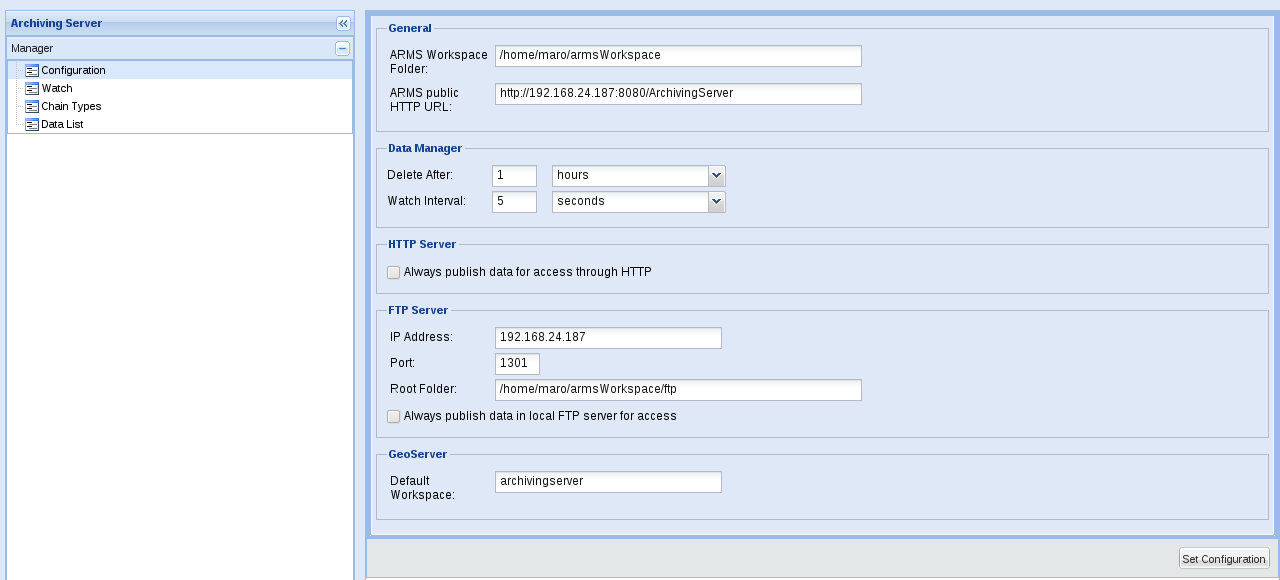
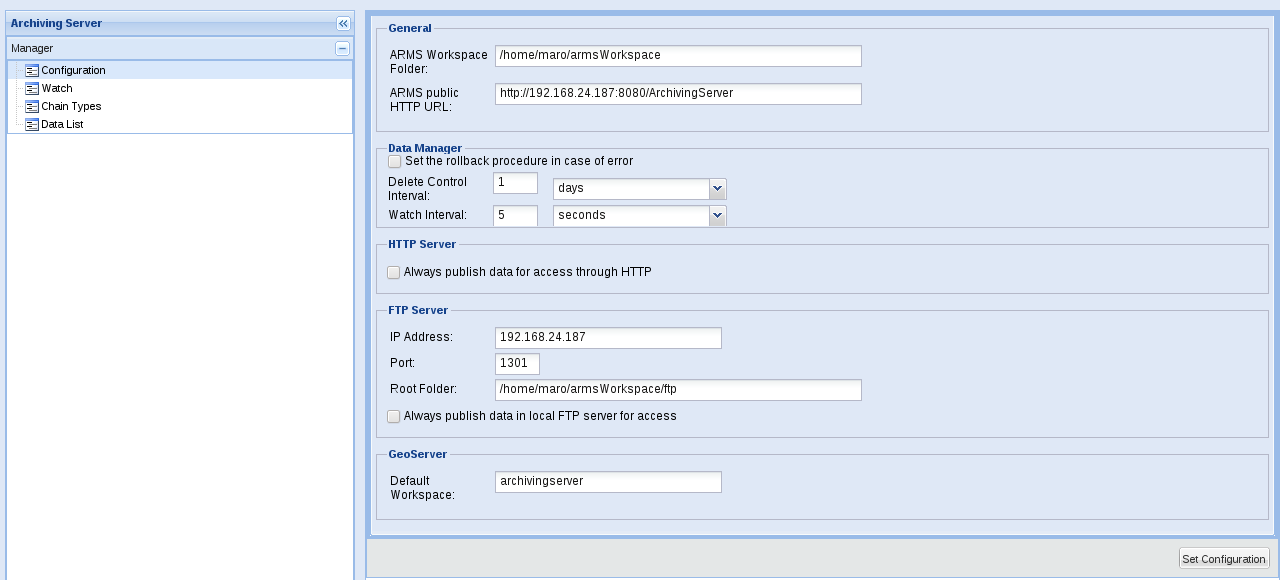
Watch and Configuration documentation updated

Changed region(s): [[0.2812, 0.2483, 0.5938, 0.4034]]

diff --git a/branches/GENESIS/9.0/ArchivingServer/web/Documentation/docsExplorer/html/installation/configure.html b/branches/GENESIS/9.0/ArchivingServer/web/Documentation/docsExplorer/html/installation/configure.html
@@ -42,7 +42,7 @@
           <li><strong>Data Manager </strong>            
             <ul>
               <li><em><strong>Set the rollback procedure in case of error</strong></em>: This parameter activates or deactivates the rollback procedure in case of error.</li>
-              <li><span class="Stile1">Delete After</span>: This parameter sets the  time interval after which data shall be automatically deleted. This is typically user to implement a rolling archive. Set this parameter to 0 to disable the automatic deletion feature. </li>
+              <li><span class="Stile1">Delete Control Interval</span>: This parameter provides a time interval between checks a data that should be automatically deleted but, due to of crash, are remained pending.</li>
               <li><em><strong>Watch Interval</strong></em>: This parameter provides a time interval between directory checks. At every check new file is searched in the directory and automatically deployed into the ARMS, if found.</li>
             </ul>
           </li>
@@ -115,6 +115,9 @@
 	          <p>Then proceed with the definition of the steps that the ARMS have to perform when a new data is ingested.</p>
 	          <p>To remove a watch just open the appropriate section and click on the Remove button. </p>
 	          <p>To remove all the Watches click on the &quot;Remove All Watches&quot; button.</p>
+		  <h4>Automatic Deletion</h4>
+	          <p>By checking this check box you will activate the Automatic Deletion functionality. This parameter sets the  time interval after which data shall be automatically deleted. This is typically user to implement a rolling archive.</p>
+	          <p><img src="../images/note.gif"> Note that if the Automatic Deletion Functionality have not been set, the automatic deletion time is set by default to 9999 weeks. </p>
 	          <h4>Internal HTTP Publishing</h4>
 	          <p>By checking this check box you will activate the HTTP publish functionality. The ingested data will be made available via HTTP. The HTTP URL will be put in the metadata and it will be visible in the management interface. </p>
 	          <p><img src="../images/note.gif"> Note that if the generic HTTP publishing parameter have been set the data will be published on HTTP even if this setting is disabled. </p>
